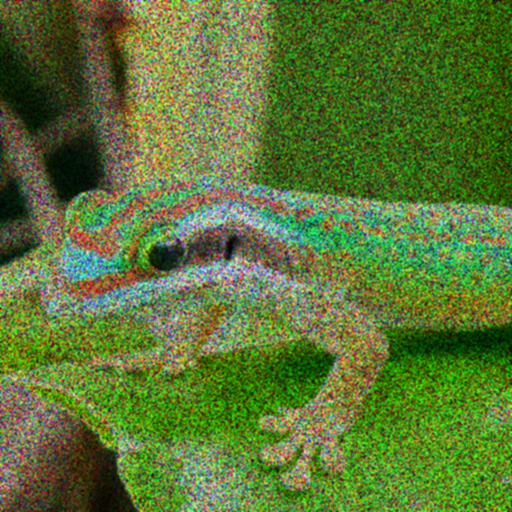
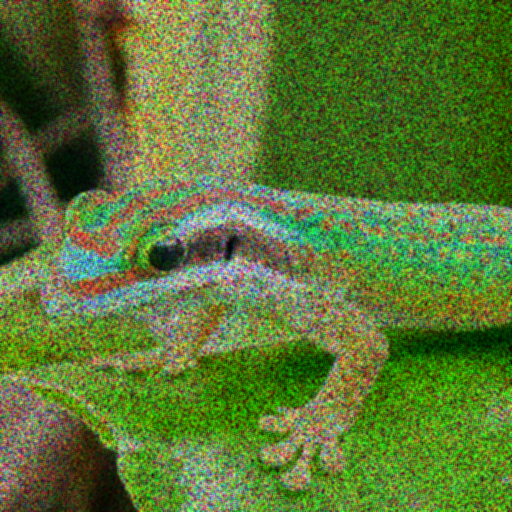
added sigma parameter

Changed region(s): [[0.4375, 0.4062, 0.4688, 0.4375]]

diff --git a/Code/algo classiques/main.cpp b/Code/algo classiques/main.cpp
@@ -18,9 +18,9 @@ enum class FilterType
 int main(int argc, char *argv[])
 {
     // Vérifier si un chemin de fichier est passé en argument
-    if (argc < 3)
+    if (argc < 4)
     {
-        std::cerr << "Utilisation : " << argv[0] << " <filepath> <filter>" << std::endl;
+        std::cerr << "Utilisation : " << argv[0] << " <filepath> <filter> <sigma>" << std::endl;
         return 1;
     }
 
@@ -28,6 +28,8 @@ int main(int argc, char *argv[])
     std::string filepath = argv[1];
     std::string filter = argv[2];
     std::transform(filter.begin(), filter.end(), filter.begin(), ::tolower);
+    std::string sigmaStr = argv[3];
+    float sigma = std::stof(sigmaStr);
 
     // Récupérer tout les images dans le dossier
     std::vector<std::string> files = utils::getFilesInDirectory("../../Ressources/In/" + filepath);
@@ -103,7 +105,7 @@ int main(int argc, char *argv[])
                 filter = new BilinearFilter();
                 break;
             case FilterType::GAUSSIAN:
-                filter = new GaussianFilter(1.0f);
+                filter = new GaussianFilter(sigma);
                 break;
             }
 
@@ -111,7 +113,7 @@ int main(int argc, char *argv[])
 
             float psnr = utils::PSNR(img, original); // Calcule le PSNR entre l'image filtrée et l'image originale
             float psnrFilter = utils::PSNR(out, original); // Calcule le PSNR entre l'image filtrée et l'image originale
-            float psnrDiff = abs(psnr - psnrFilter);
+            float psnrDiff = psnrFilter - psnr;
 
             std::cout << "Image : " << file << std::endl;
 
